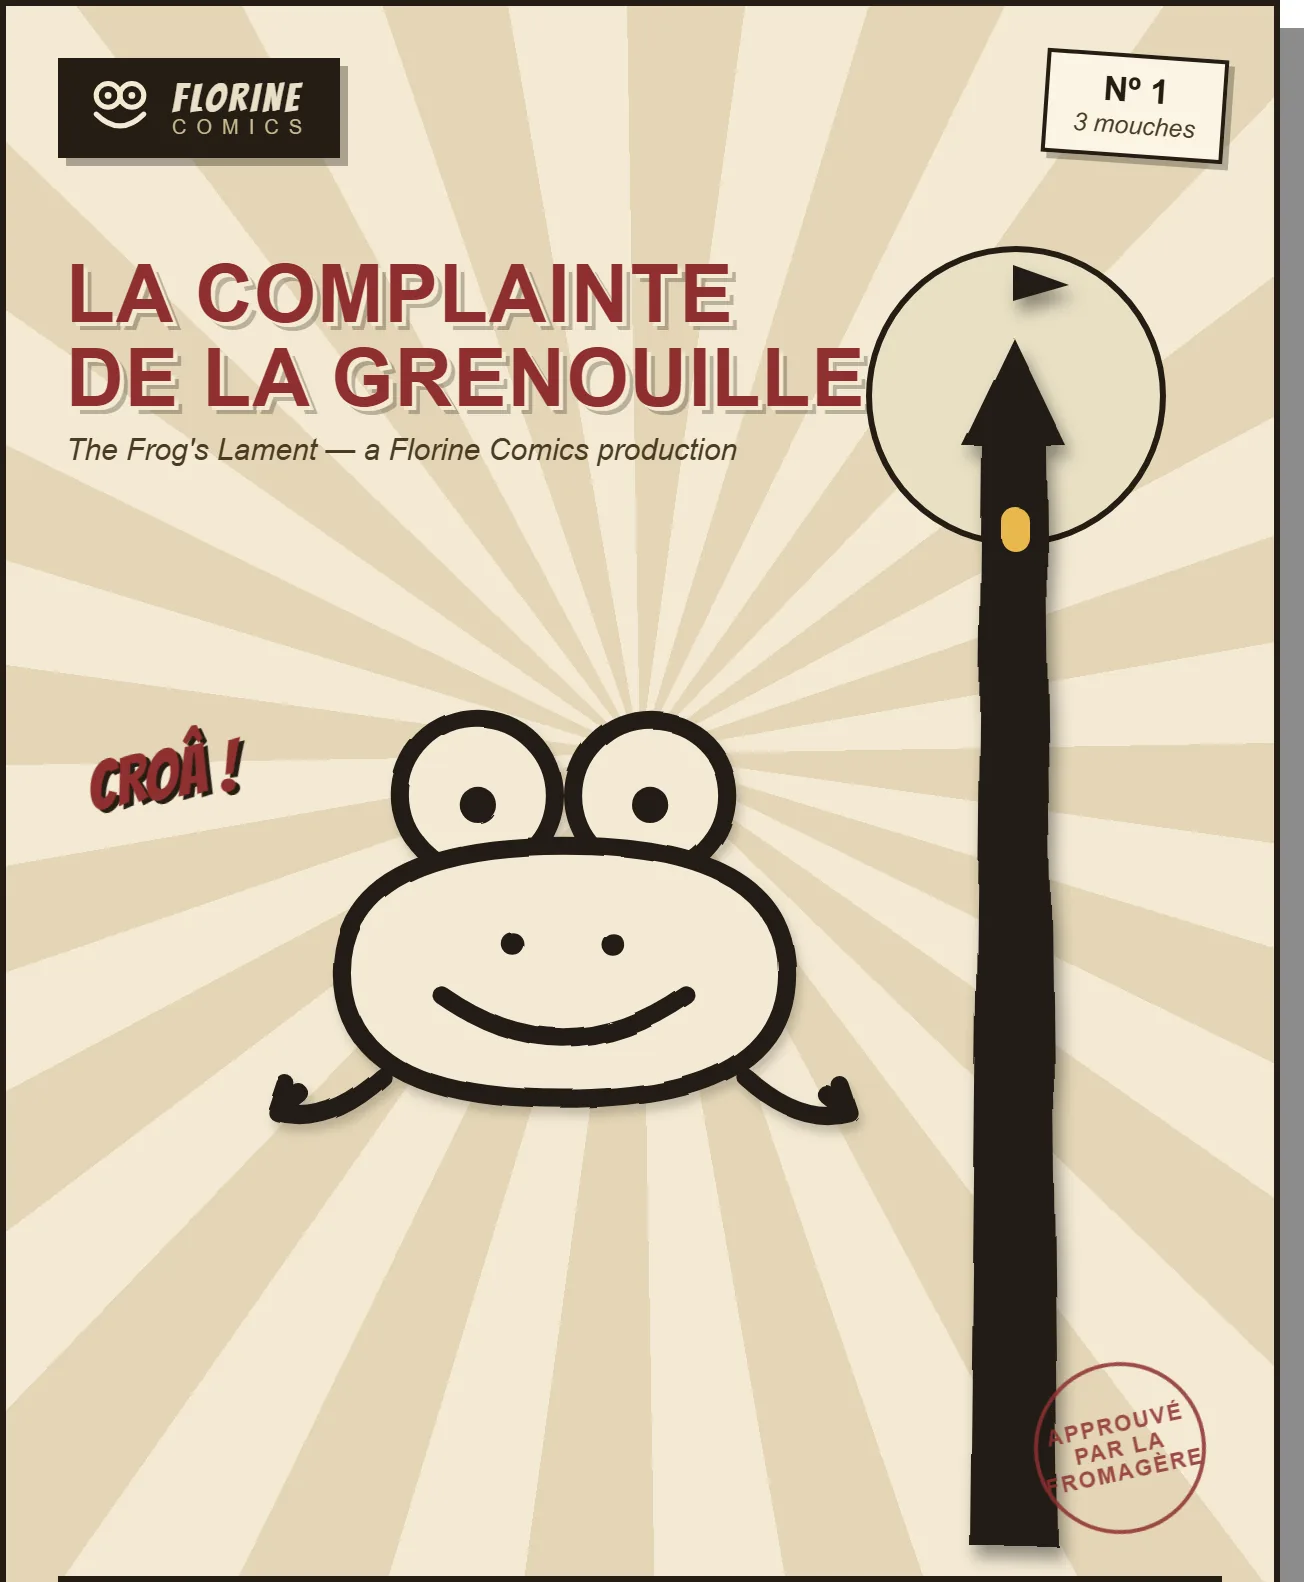
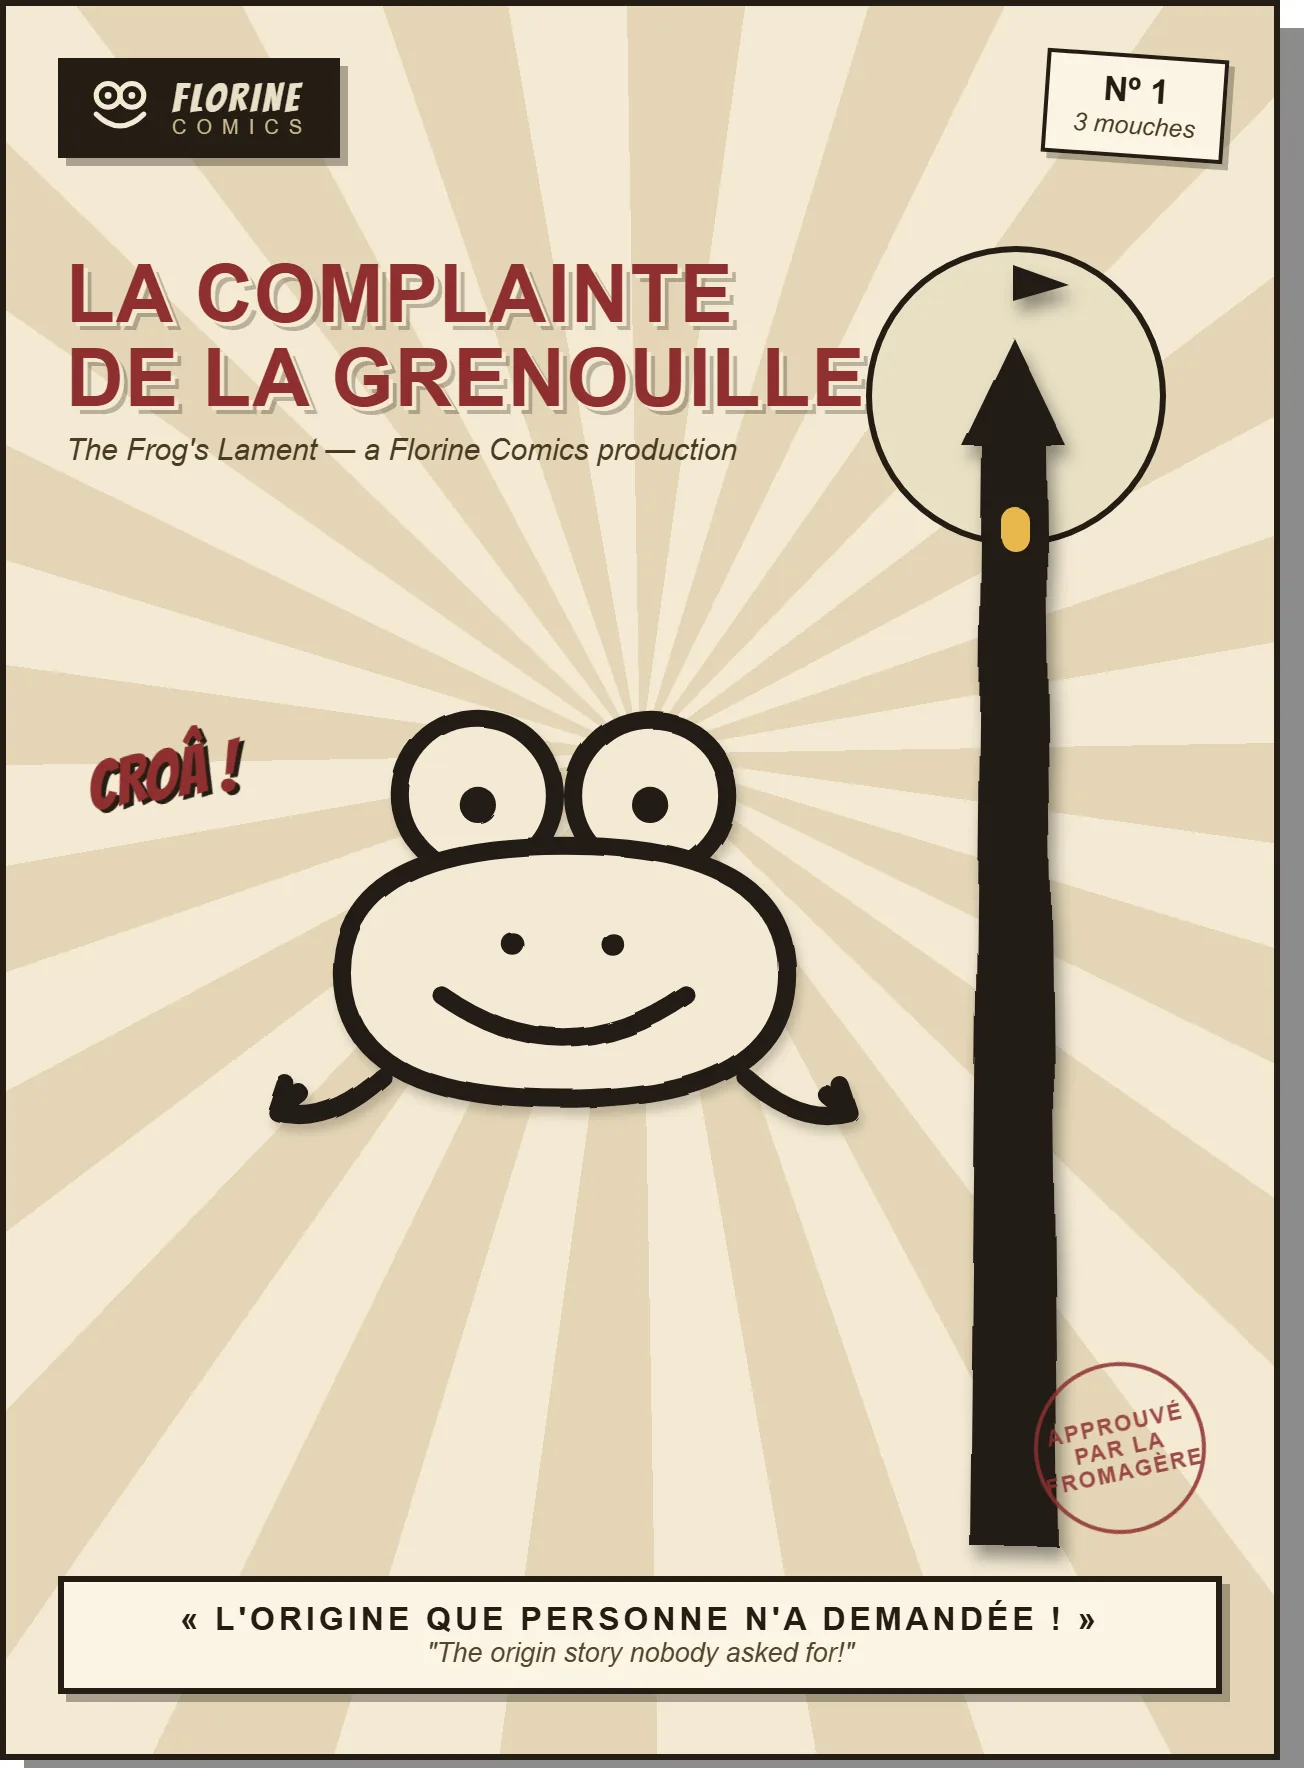
comic: fix the amputated page-10 at the source + reader reads real image dims
Root cause, finally measured (not guessed): page-10 on disk was 2048x1165,
not 2048x1408 — my image-BUILD trim, not the reader, had been cutting its
bottom off. That sheet ("Les Affectations") has a full-width pale gap between
its teacher grid and its caption; the old trim kept only the largest dense
RUN of rows and discarded everything below the gap. The cover was clipped the
same way (1582 vs its true 1768). Every other spread happened to have no
interior gap, so only these were wrong — which is exactly the "just these
pages" the user saw.

Fixes:
- build_comic_pages.py trims by scanning INWARD from each edge and stopping at
  the first dense row/column, so interior light bands are never removed.
  Regenerated: page-10 -> 2048x1408, cover -> 1304x1768, all 19 intact.
- The reader no longer trusts the manifest's page dimensions: an onLoad
  handler records each image's real naturalWidth/naturalHeight and the
  fit-to-window recomputes from those. A stale or wrong manifest value can no
  longer misfit a page — it self-corrects the instant the image loads.
- Manifest cover dim updated to the true 1304x1768 for a correct first paint.

Verified in-browser at 1440x900: all 19 pages render at their exact natural
aspect and fully within the viewport (page-10 = full 2048x1408, cover = full
1304x1768), controls + caption always visible.

diff --git a/src/components/FrogComic.tsx b/src/components/FrogComic.tsx
@@ -66,9 +66,13 @@ function ComicBook({ onClose }: { onClose: () => void }) {
   const overlayRef = useRef<HTMLDivElement>(null);
   const stageRef = useRef<HTMLDivElement>(null);
   // Measured size of the reading area. The sheet is sized in JS from this and
-  // the page's intrinsic dimensions — an exact fit-to-window like the design
+  // the page's real pixel dimensions — an exact fit-to-window like the design
   // viewer: the WHOLE spread is always visible, never clipped, never distorted.
   const [box, setBox] = useState<{ w: number; h: number }>({ w: 0, h: 0 });
+  // True pixel size of each loaded image, keyed by src. The manifest values are
+  // the pre-load estimate; onLoad overwrites them with the browser's real
+  // measurement, so a stale/wrong manifest dimension can never misfit a page.
+  const [natural, setNatural] = useState<Record<string, { w: number; h: number }>>({});
 
   const last = COMIC_PAGES.length - 1;
   const pg = COMIC_PAGES[view.i];
@@ -102,10 +106,12 @@ function ComicBook({ onClose }: { onClose: () => void }) {
   }, [phase]);
 
   // Contain-fit inside the stage, minus a little breathing room + the frame.
+  // Prefer the browser's measured natural size over the manifest estimate.
+  const dim = natural[pg.src] ?? { w: pg.w, h: pg.h };
   const pad = 12;
-  const scale = Math.min((box.w - pad) / pg.w, (box.h - pad) / pg.h);
-  const fitW = Math.max(1, Math.floor(pg.w * scale));
-  const fitH = Math.max(1, Math.floor(pg.h * scale));
+  const scale = Math.min((box.w - pad) / dim.w, (box.h - pad) / dim.h);
+  const fitW = Math.max(1, Math.floor(dim.w * scale));
+  const fitH = Math.max(1, Math.floor(dim.h * scale));
 
   const go = useCallback(
     (delta: number) => {
@@ -213,6 +219,16 @@ function ComicBook({ onClose }: { onClose: () => void }) {
                 width={fitW}
                 height={fitH}
                 style={{ width: fitW, height: fitH }}
+                onLoad={(e) => {
+                  const el = e.currentTarget;
+                  const cur = natural[pg.src];
+                  if (!cur || cur.w !== el.naturalWidth || cur.h !== el.naturalHeight) {
+                    setNatural((m) => ({
+                      ...m,
+                      [pg.src]: { w: el.naturalWidth, h: el.naturalHeight },
+                    }));
+                  }
+                }}
                 className={`flex-none select-none rounded-md border-[3px] border-ink bg-card shadow-[6px_8px_0_rgba(0,0,0,0.45)] ${
                   view.dir === "next" ? "comic-page-next" : "comic-page-prev"
                 }`}

diff --git a/src/lib/frogComicPanels.tsx b/src/lib/frogComicPanels.tsx
@@ -34,7 +34,7 @@ const page = (n: number, id: string, alt: string, dims = SPREAD): ComicPage => (
 });
 
 export const COMIC_PAGES: ComicPage[] = [
-  page(1, "cover", "Cover — La Complainte de la Grenouille, Florine Comics Nº 1, 3 mouches", { w: 1304, h: 1582 }),
+  page(1, "cover", "Cover — La Complainte de la Grenouille, Florine Comics Nº 1, 3 mouches", { w: 1304, h: 1768 }),
   page(2, "cast-arrival", "Dramatis personae, and Chapter I — The Arrival: a €34 plane ticket full of bad ideas"),
   page(3, "bise-offences", "The high-five heard around Paris, and Chapter II — The Offences: the outfit"),
   page(4, "boulangerie-diner", "Kwa-sont at the boulangerie; ketchup on the duck confit at dinner"),

diff --git a/scripts/build_comic_pages.py b/scripts/build_comic_pages.py
@@ -29,7 +29,14 @@ QUALITY = 82
 
 
 def trim_white(im: Image.Image, tol: int = 12, density: float = 0.08) -> Image.Image:
-    """Crop to the artwork: widest dense run of columns, then rows."""
+    """
+    Crop to the artwork by scanning INWARD from each edge, stripping rows and
+    columns whose non-white share is below `density` and stopping at the first
+    dense one. Interior light bands are never touched — an earlier version kept
+    only the largest dense RUN, which silently amputated the bottom of any
+    sheet with a full-width pale gap between its panels and its captions.
+    Sparse specks near the edges (the cover's stray pixels) are still skipped.
+    """
     rgb = im.convert("RGB")
     bg = Image.new("RGB", rgb.size, (255, 255, 255))
     mask = ImageChops.difference(rgb, bg).convert("L").point(lambda p: 255 if p > tol else 0)
@@ -41,23 +48,24 @@ def trim_white(im: Image.Image, tol: int = 12, density: float = 0.08) -> Image.I
     w, h = mask.size
     px = mask.load()
 
-    def dense_run(count: int, other: int, at) -> tuple[int, int]:
-        dense = [sum(1 for j in range(other) if at(i, j)) / other > density for i in range(count)]
-        best = cur_start = -1
-        best_len = cur_len = 0
-        for i, d in enumerate(dense):
-            if d:
-                if cur_len == 0:
-                    cur_start = i
-                cur_len += 1
-                if cur_len > best_len:
-                    best_len, best = cur_len, cur_start
-            else:
-                cur_len = 0
-        return (best, best + best_len) if best_len else (0, count)
+    def row_dense(y: int) -> bool:
+        return sum(1 for x in range(w) if px[x, y]) / w > density
 
-    x0, x1 = dense_run(w, h, lambda x, y: px[x, y])
-    y0, y1 = dense_run(h, w, lambda y, x: px[x, y])
+    def col_dense(x: int) -> bool:
+        return sum(1 for y in range(h) if px[x, y]) / h > density
+
+    y0 = 0
+    while y0 < h - 1 and not row_dense(y0):
+        y0 += 1
+    y1 = h
+    while y1 > y0 + 1 and not row_dense(y1 - 1):
+        y1 -= 1
+    x0 = 0
+    while x0 < w - 1 and not col_dense(x0):
+        x0 += 1
+    x1 = w
+    while x1 > x0 + 1 and not col_dense(x1 - 1):
+        x1 -= 1
     return im.crop((x0, y0, x1, y1))
 
 
